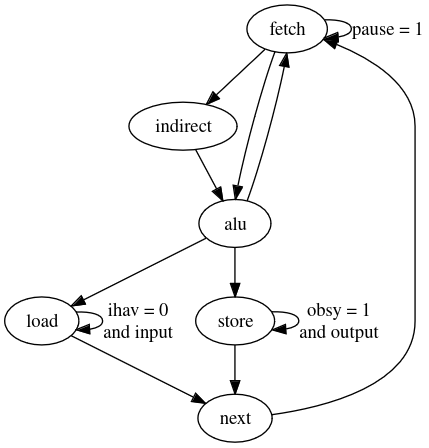
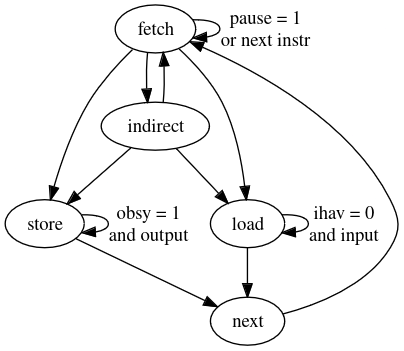
123.020MHz: Removed the S_ALU state
* Updated `readme.md` with more ideas on things to do.
* Removed the `S_ALU` state, the system FMAX HZ is lower, however not
  by much, it should run quicker without the S_ALU state. The system is
  a little bigger, the CPU now takes up 30 slices, instead of 25-27 in
  previous commits.

+---------------------------------------------------------------------------------------------------------------------------------------------------------------------------------------+
| Module             | Partition | Slices*       | Slice Reg     | LUTs          | LUTRAM        | BRAM/FIFO | DSP48A1 | BUFG  | BUFIO | BUFR  | DCM   | PLL_ADV   | Full Hierarchical  |
+---------------------------------------------------------------------------------------------------------------------------------------------------------------------------------------+
| top/               |           | 3/55          | 9/102         | 1/142         | 0/0           | 0/8       | 0/0     | 1/1   | 0/0   | 0/0   | 0/0   | 0/0       | top                |
| +system            |           | 0/30          | 0/44          | 0/76          | 0/0           | 0/8       | 0/0     | 0/0   | 0/0   | 0/0   | 0/0   | 0/0       | top/system         |
| ++bram             |           | 0/0           | 0/0           | 0/0           | 0/0           | 8/8       | 0/0     | 0/0   | 0/0   | 0/0   | 0/0   | 0/0       | top/system/bram    |
[…]

diff --git a/readme.md b/readme.md
@@ -199,14 +199,14 @@ The following can be used to create a state-machine diagram with
 Graphviz, this can be done online, see <https://dreampuf.github.io/GraphvizOnline/>:
 
 	digraph LfsrCpu {
-		fetch -> fetch [label = "pause = 1"];
+		fetch -> fetch [label = "pause = 1\nor next instr"];
 		fetch -> indirect;
-		fetch -> alu;
-		indirect -> alu;
-		alu -> fetch;
-		alu -> load;
-		alu -> store;
-		load -> load [label = "ihav = 0\nand input"]
+		fetch -> load;
+		fetch -> store;
+		indirect -> fetch;
+		indirect -> load;
+		indirect -> store;
+		load -> load [label = "ihav = 0\nand input"];
 		load -> next;
 		store -> next;
 		store -> store [label = "obsy = 1\nand output"];
@@ -284,6 +284,23 @@ endings also need to be made to be identical for both inputs.
   and pseudo peripherals.
 * The `lfsr.vhd` file is quite configurable with many generics, the tool-chain
   could be made to generate Forth images that deal with the variants.
+* A Dual-Port version of the CPU would be faster, although require more resources,
+  this CPU in its current form can share one half a Dual Port Block RAM allowing
+  very fast memory mapped I/O.
+* The eForth image could be turned into ROM sections (the Forth Virtual Machine
+  and the initial Forth dictionary could go here) and sections that can be stored
+  in RAM. This ROM/RAM version would also execute faster, provided only the Forth
+  VM was to be stored in ROM.
+* A bit-serial version of this CPU could be made, it might be smaller, it would
+  certainly be slower.
+* A simulation written in VHDL using components based off of real 7400 series
+  devices could be made. This should make it easier to build a physical version
+  of this system out of 7400 series ICs, and will most likely be faster than
+  other digital simulators. This would involve making components for each 7400
+  series IC we would want to use, sticking to the common ones (NAND gates,
+  counters, multiplexors, flip flops, comparators, decoders) would be best,
+  as some of the more exotic devices (such as ALUs, adders, ...) can be harder
+  to find.
 
 # References
 
